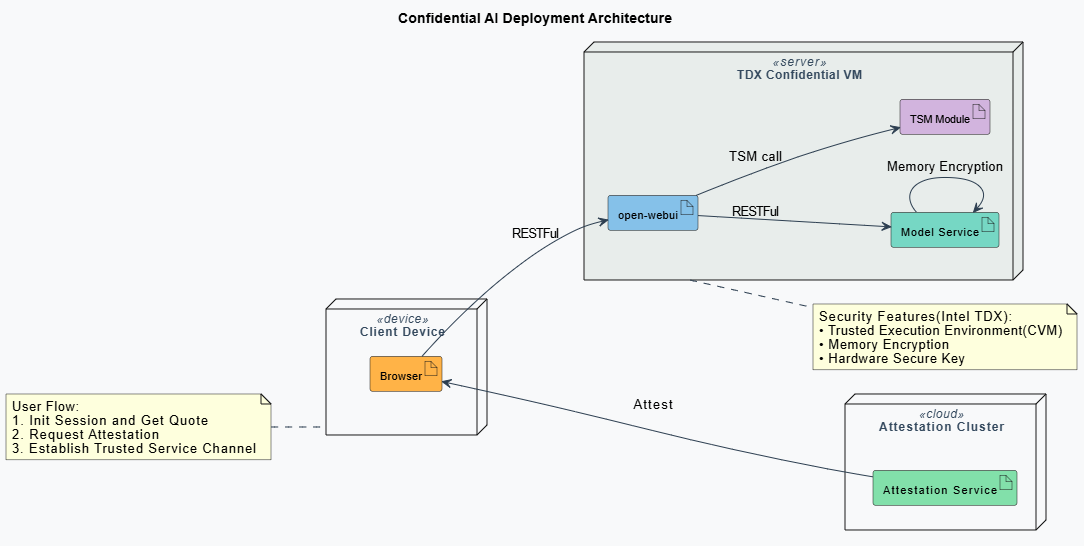
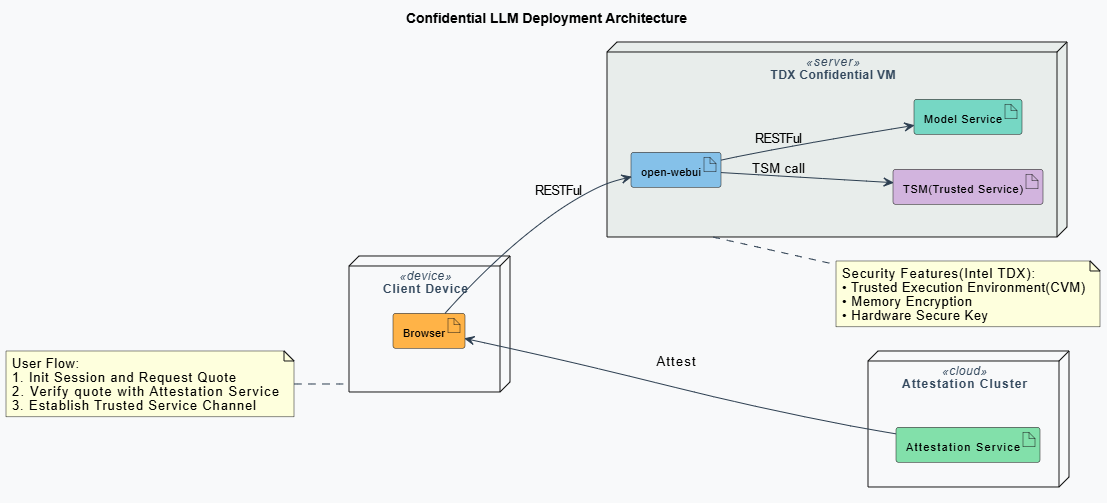
Remove intermediate files and update deployment diagram
Remove intermediate files and update deployment diagram

Changed region(s): [[0.0, 0.0, 1.0, 0.9841]]

diff --git a/cczoo/confidential_ai/README.md b/cczoo/confidential_ai/README.md
@@ -99,7 +99,7 @@ xxx
 - Software: (1) Host/Guest OS with TDX support (2)Install TDX remote attestation DCAP packages
 Please refer to [Intel TDX Enabling Guide](https://cc-enabling.trustedservices.intel.com/intel-tdx-enabling-guide/01/introduction/index.html).
 
-## 5. Security Design
+## 5. Security Design Overview
 ### Measurement
 
 Intel Trust Domain Extensions (TDX) enhances virtual machine security by isolating them within hardware-protected Trust Domains (TDs). During the boot process, the TDX module records the state of the TD guest using two primary registers:
